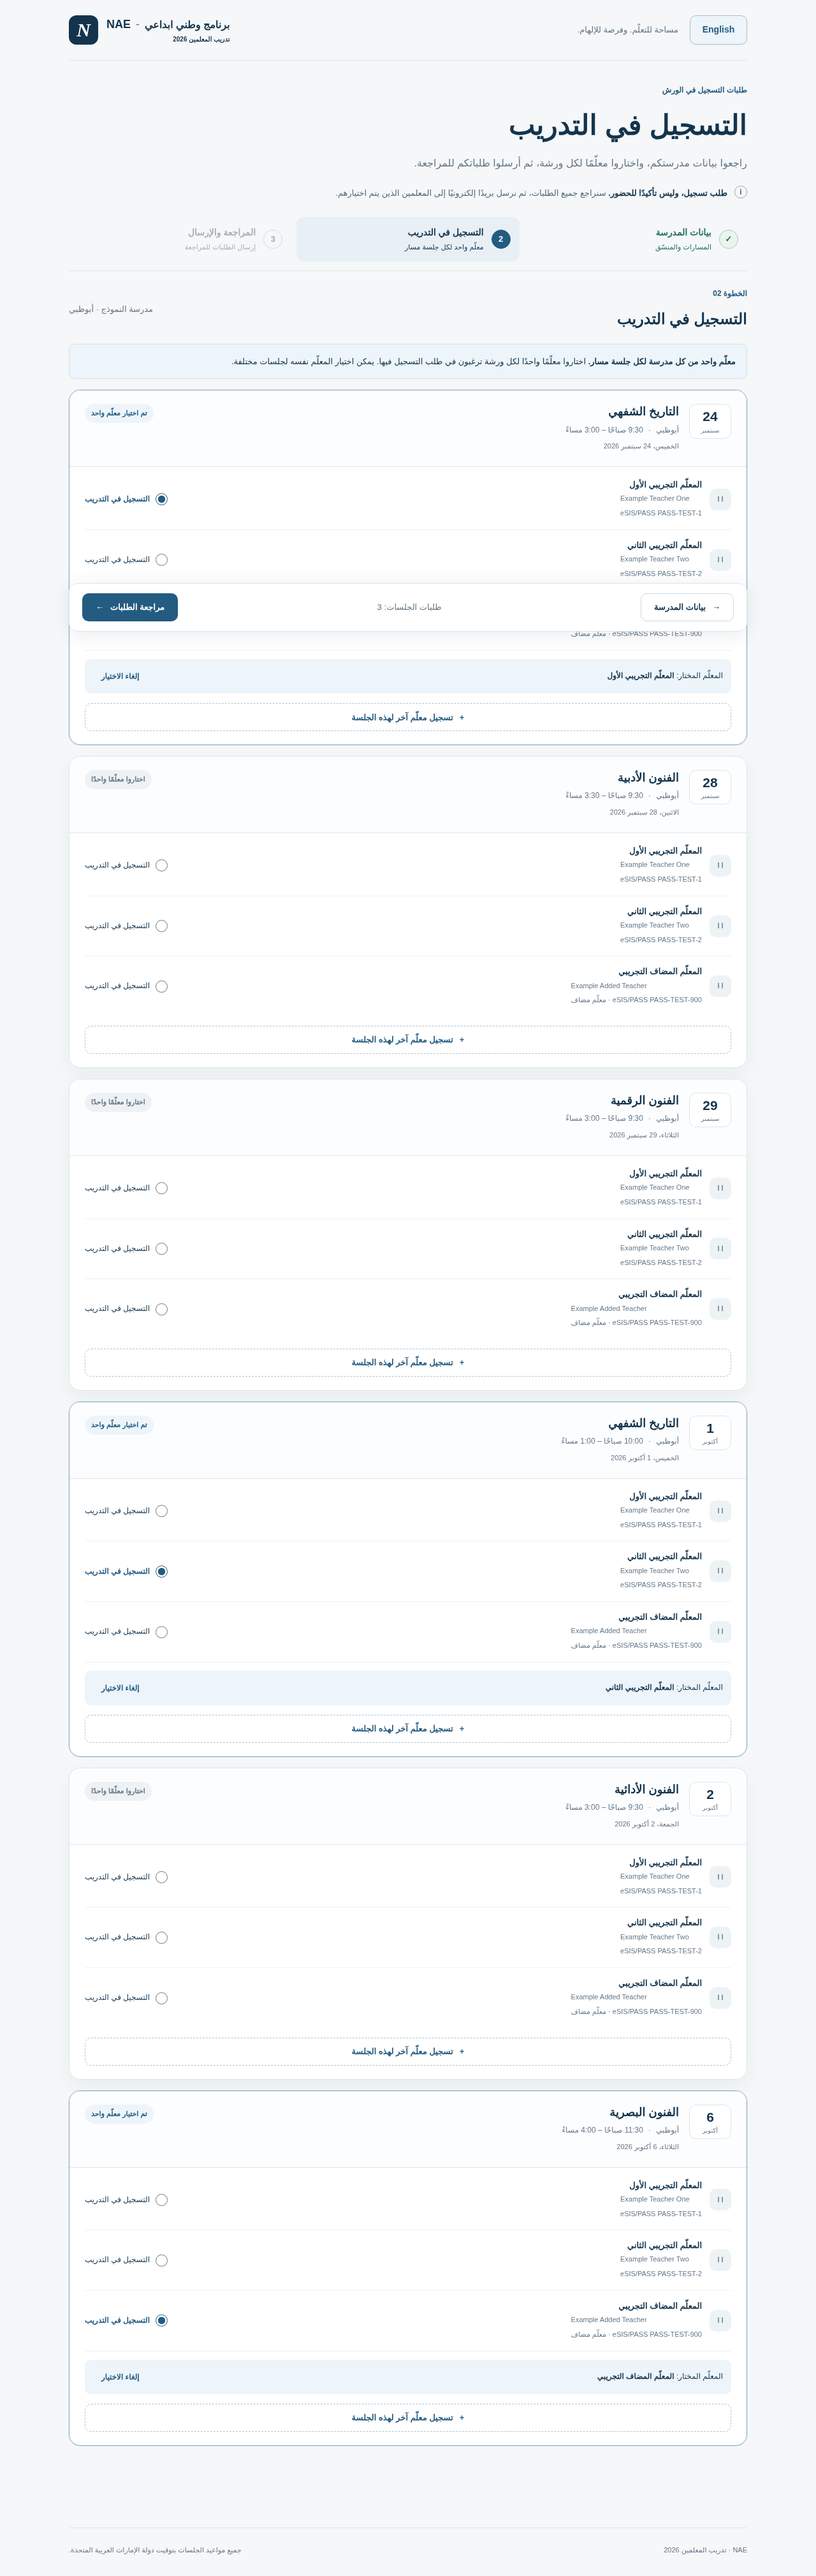
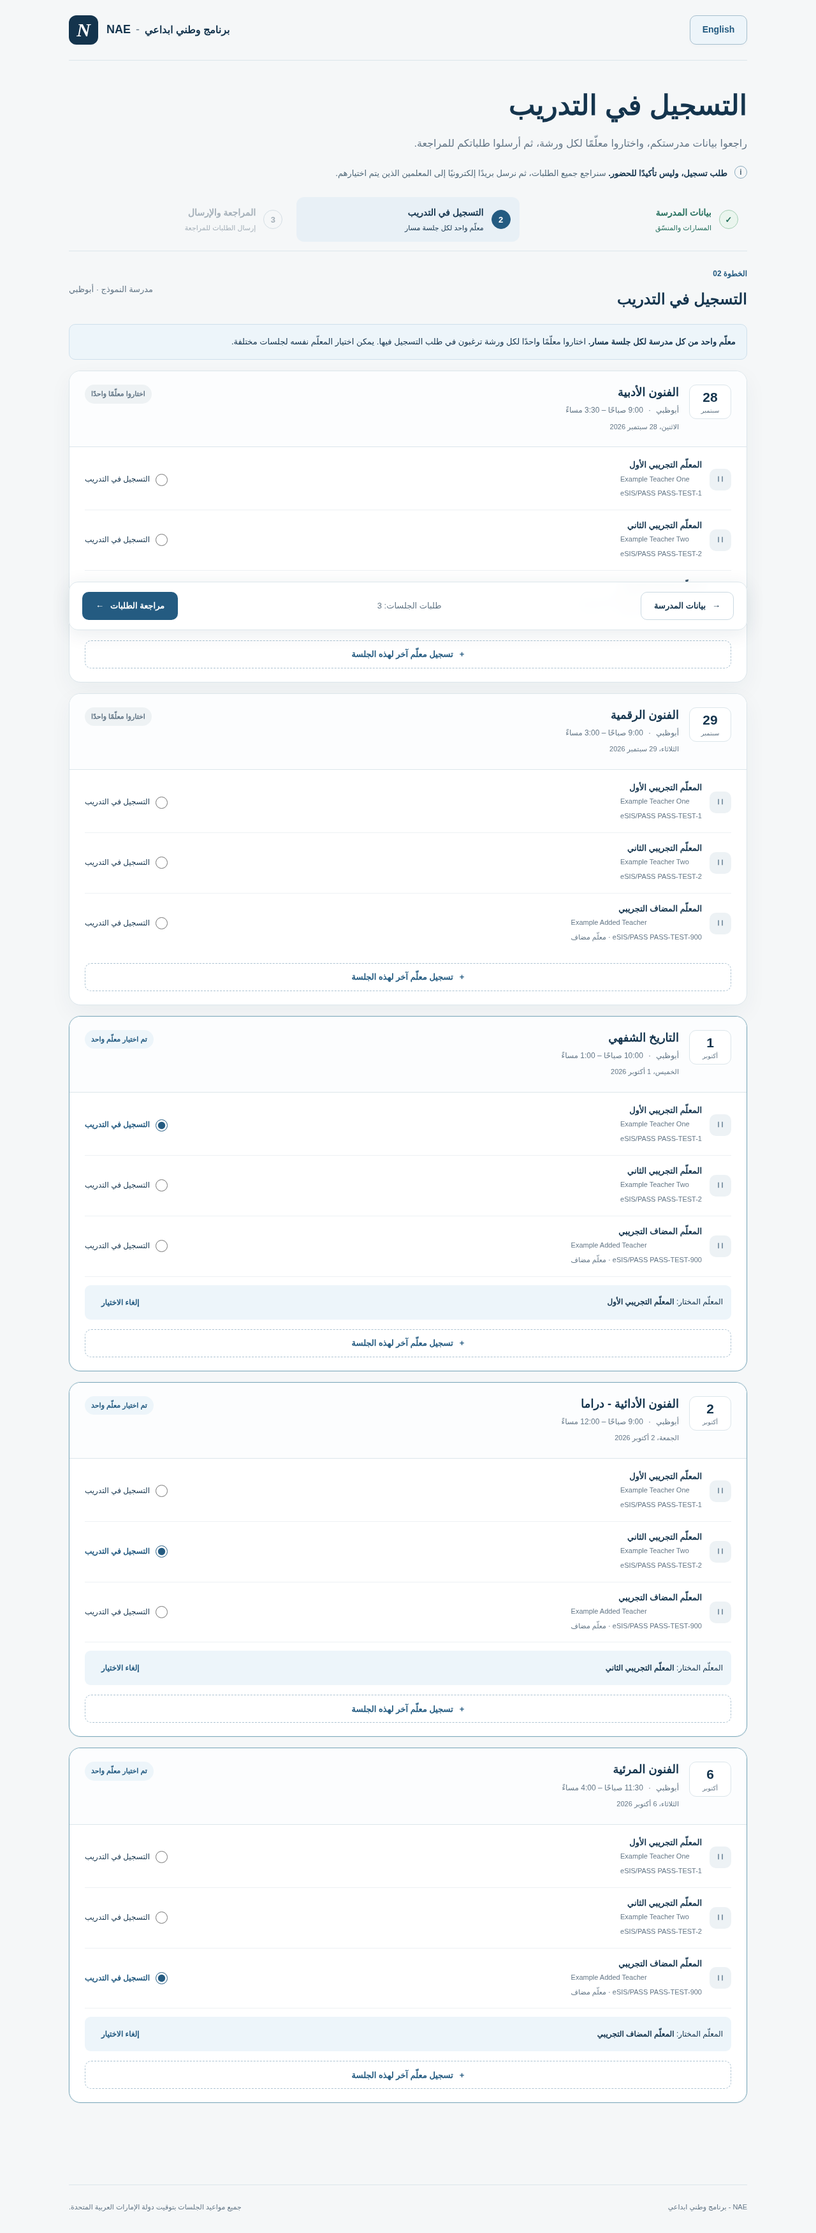
Close 24 September Oral History registration

diff --git a/tests/domain.test.js b/tests/domain.test.js
@@ -6,7 +6,8 @@ const all=domain.officialPathways;
 const ad=data.schools.find(s=>s.region==='Abu Dhabi'&&s.coordinator.verified&&s.teachers.length>=2);
 const unverified=data.schools.find(s=>s.coordinator.nameEnglish&&!s.coordinator.verified&&s.teachers.length);
 const noCoordinator=data.schools.find(s=>!s.coordinator.nameEnglish);
-const oral=data.sessions.filter(s=>s.pathway==='Oral History');
+const oral=data.sessions.filter(s=>s.pathway==='Oral History'&&s.registrationOpen!==false);
+const closedOral=data.sessions.find(s=>s.id==='ORAL-HISTORY-ABU-DHABI-20260924');
 const newCoordinator={nameEnglish:'Test Coordinator',nameArabic:'Test Arabic Name',esis:'PASS-TEST-C',position:'Coordinator',emiratesId:'784-2000-0000000-0',workEmail:'coordinator@example.invalid',primaryEmail:'primary@example.invalid',mobile:'0500000000'};
 const newTeacher={id:'A-test',nameEnglish:'Test Teacher',nameArabic:'Test Arabic Name',esis:'PASS-TEST-1',position:'Teacher',workEmail:'teacher@example.invalid',mobile:'0500000000'};
 function body(school=ad){return {requestId:crypto.randomUUID(),schoolEsis:school.schoolEsis,pathways:[...all],pathwaysReviewed:true,coordinator:{action:school.coordinator.verified?'verified':school.coordinator.nameEnglish?'confirm':'add',...(!school.coordinator.nameEnglish?newCoordinator:{})},addedTeachers:[],teacherIdentifiers:{},selections:[{sessionId:oral[0].id,teacherId:school.teachers[0]?.id||newTeacher.id}],acknowledgement:true,language:'en',acknowledgements:{onceOnly:true,emailConfirmation:true}};}
@@ -21,21 +22,20 @@ test('Private contacts and identity numbers never occur in public school fields'
 });
 test('Public session data excludes venue',()=>{for(const s of data.sessions)assert.equal('venue' in domain.publicSession(s),false);});
 test('Abu Dhabi regional routing; no Applied Arts training session invented',()=>{
- const sessions=eligibleSessions(ad,all);assert.equal(sessions.length,6);assert.ok(sessions.every(s=>s.region==='Abu Dhabi'));assert.ok(!sessions.some(s=>s.pathway==='Applied Arts'));
+ const sessions=eligibleSessions(ad,all);assert.equal(sessions.length,5);assert.ok(sessions.every(s=>s.region==='Abu Dhabi'));assert.ok(!sessions.some(s=>s.pathway==='Applied Arts'));
 });
 test('Al Ain arts route locally; Performing Arts and Oral History route to Abu Dhabi',()=>{
- const school=data.schools.find(s=>s.region==='Al Ain');const sessions=eligibleSessions(school,all);assert.equal(sessions.length,6);
+ const school=data.schools.find(s=>s.region==='Al Ain');const sessions=eligibleSessions(school,all);assert.equal(sessions.length,5);
  for(const s of sessions)assert.equal(s.region,['Oral History','Performing Arts'].includes(s.pathway)?'Abu Dhabi':'Al Ain');
 });
-test('Al Dhafra can access both regional options before choosing one',()=>assert.equal(eligibleSessions(data.schools.find(s=>s.region==='Al Dhafra'),all).length,9));
+test('Al Dhafra can access both regional options before choosing one',()=>assert.equal(eligibleSessions(data.schools.find(s=>s.region==='Al Dhafra'),all).length,8));
 test('Al Dhafra cannot request both Abu Dhabi and Al Ain for the same pathway',()=>{
  const school=data.schools.find(s=>s.region==='Al Dhafra');const b=body(school);const pair=data.sessions.filter(s=>s.pathway==='Visual Arts');
  b.addedTeachers=[newTeacher];b.selections=pair.map(s=>({sessionId:s.id,teacherId:newTeacher.id}));
  assert.throws(()=>validateRequest(b),/either Abu Dhabi or Al Ain/);
 });
-test('Schools without pathways still have both Oral History dates',()=>assert.deepEqual(eligibleSessions(ad,[]).map(s=>s.id),oral.map(s=>s.id)));
-test('Same teacher may request both Oral History sessions',()=>{const b=body();b.selections.push({sessionId:oral[1].id,teacherId:ad.teachers[0].id});assert.equal(validateRequest(b).payload.records.length,2);});
-test('Different teachers may request the two different Oral History dates',()=>{const b=body();b.selections.push({sessionId:oral[1].id,teacherId:ad.teachers[1].id});assert.equal(validateRequest(b).payload.records.length,2);});
+test('Schools without pathways can request only the open Oral History session',()=>assert.deepEqual(eligibleSessions(ad,[]).map(s=>s.id),oral.map(s=>s.id)));
+test('24 September Oral History remains in historical schedule data but is closed for new requests',()=>{assert.equal(closedOral.registrationOpen,false);assert.ok(!eligibleSessions(ad,all).some(s=>s.id===closedOral.id));const b=body();b.selections=[{sessionId:closedOral.id,teacherId:ad.teachers[0].id}];assert.throws(()=>validateRequest(b),/pathways or region/);});
 test('Two different teachers cannot request the same Oral History session',()=>{const b=body();b.selections.push({sessionId:oral[0].id,teacherId:ad.teachers[1].id});assert.throws(()=>validateRequest(b),/Only one teacher/);});
 test('Repeated identical session selection is rejected, not silently deduplicated',()=>{const b=body();b.selections.push({...b.selections[0]});assert.throws(()=>validateRequest(b),/Only one teacher/);});
 test('Teacher/session pairs for a wrong region are rejected server-side',()=>{const b=body();b.selections=[{sessionId:data.sessions.find(s=>s.pathway==='Visual Arts'&&s.region==='Al Ain').id,teacherId:ad.teachers[0].id}];assert.throws(()=>validateRequest(b),/pathways or region/);});
@@ -63,8 +63,8 @@ test('Missing existing eSIS is requested rather than inventing an identifier',()
 });
 test('Idempotent input produces the same hash and request-record IDs',()=>{const b=body();const a=validateRequest(b),c=validateRequest(b);assert.equal(a.hash,c.hash);assert.equal(a.payload.records[0].id,c.payload.records[0].id);});
 test('Changing a request changes its hash',()=>{const b=body();const a=validateRequest(b);b.pathways=[];assert.notEqual(a.hash,validateRequest(b).hash);});
-test('Same additional teacher is reused across multiple distinct sessions',()=>{const b=body();b.addedTeachers=[newTeacher];b.selections=oral.map(s=>({sessionId:s.id,teacherId:newTeacher.id}));assert.equal(validateRequest(b).payload.records.length,2);});
-test('Duplicate additional teacher eSIS is rejected',()=>{const b=body();b.addedTeachers=[newTeacher,{...newTeacher,id:'A-second'}];b.selections=oral.map((s,i)=>({sessionId:s.id,teacherId:b.addedTeachers[i].id}));assert.throws(()=>validateRequest(b),/entered more than once/);});
+test('Same additional teacher is reused across multiple distinct sessions',()=>{const b=body();const sessions=eligibleSessions(ad,all).slice(0,2);b.addedTeachers=[newTeacher];b.selections=sessions.map(s=>({sessionId:s.id,teacherId:newTeacher.id}));assert.equal(validateRequest(b).payload.records.length,2);});
+test('Duplicate additional teacher eSIS is rejected',()=>{const b=body();const sessions=eligibleSessions(ad,all).slice(0,2);b.addedTeachers=[newTeacher,{...newTeacher,id:'A-second'}];b.selections=sessions.map((s,i)=>({sessionId:s.id,teacherId:b.addedTeachers[i].id}));assert.throws(()=>validateRequest(b),/entered more than once/);});
 test('Adding a known Applied-only teacher cannot bypass their workshop eligibility',()=>{
  const school=data.schools.find(s=>s.teachers.some(t=>t.pathways.length===1&&t.pathways[0]==='Applied Arts'));
  const teacher=school.teachers.find(t=>t.pathways.length===1&&t.pathways[0]==='Applied Arts');

diff --git a/tests/bilingual.test.js b/tests/bilingual.test.js
@@ -1,7 +1,7 @@
 'use strict';
 const test=require('node:test'),assert=require('node:assert/strict'),crypto=require('node:crypto'),fs=require('node:fs');
 const I=require('../public/i18n'),D=require('../lib/domain'),JF=require('../lib/jotform');
-function valid(){const school=D.data.schools.find(s=>s.coordinator.verified&&s.teachers.some(t=>t.esis));const teacher=school.teachers.find(t=>t.esis),session=D.data.sessions.find(s=>s.pathway==='Oral History');return {requestId:crypto.randomUUID(),schoolEsis:school.schoolEsis,pathways:school.registeredPathways,pathwaysReviewed:true,coordinator:{action:'verified'},selections:[{sessionId:session.id,teacherId:teacher.id}],addedTeachers:[],teacherIdentifiers:{},language:'en',acknowledgement:true,acknowledgements:{onceOnly:true,emailConfirmation:true}};}
+function valid(){const school=D.data.schools.find(s=>s.coordinator.verified&&s.teachers.some(t=>t.esis));const teacher=school.teachers.find(t=>t.esis),session=D.data.sessions.find(s=>s.pathway==='Oral History'&&s.registrationOpen!==false);return {requestId:crypto.randomUUID(),schoolEsis:school.schoolEsis,pathways:school.registeredPathways,pathwaysReviewed:true,coordinator:{action:'verified'},selections:[{sessionId:session.id,teacherId:teacher.id}],addedTeachers:[],teacherIdentifiers:{},language:'en',acknowledgement:true,acknowledgements:{onceOnly:true,emailConfirmation:true}};}
 test('Both separate acknowledgements are required; the legacy flag alone is not enough',()=>{for(const a of [undefined,{}, {onceOnly:true},{emailConfirmation:true},{onceOnly:false,emailConfirmation:true},{onceOnly:true,emailConfirmation:false},{onceOnly:'true',emailConfirmation:true}]){const body=valid();body.acknowledgements=a;assert.throws(()=>D.validateRequest(body),e=>e.code==='ACKNOWLEDGEMENTS_REQUIRED');}});
 test('English acceptance is saved with exact requested statements and a policy version',()=>{const p=D.validateRequest(valid()).payload;assert.equal(p.language,'en');assert.equal(p.acknowledgements.version,I.policyVersion);assert.deepEqual(p.acknowledgements.statements,{onceOnly:I.policy.en.onceOnly,emailConfirmation:I.policy.en.emailConfirmation});assert.equal(p.acknowledgements.onceOnly,true);assert.equal(p.acknowledgements.emailConfirmation,true);});
 test('Arabic acceptance is stored from the authoritative catalogue, not client-supplied text',()=>{const b=valid();b.language='ar';b.acknowledgements.statements={onceOnly:'Untrusted text',emailConfirmation:'Approved'};const p=D.validateRequest(b).payload;assert.equal(p.language,'ar');assert.equal(p.acknowledgements.statements.onceOnly,I.policy.ar.onceOnly);assert.equal(p.acknowledgements.statements.emailConfirmation,I.policy.ar.emailConfirmation);assert.equal(p.records[0].status,'Pending review');});

diff --git a/tests/once.test.js b/tests/once.test.js
@@ -13,7 +13,7 @@ function stub(t,object,key,value){const original=object[key];object[key]=value;t
 function env(t,key,value){const prior=process.env[key];if(value===undefined)delete process.env[key];else process.env[key]=value;t.after(()=>{if(prior===undefined)delete process.env[key];else process.env[key]=prior;});}
 function schoolRequest(){
   const s=domain.data.schools.find(x=>x.coordinator.verified && x.teachers.some(t=>t.esis));
-  const session=domain.data.sessions.find(x=>x.pathway==='Oral History');
+  const session=domain.data.sessions.find(x=>x.pathway==='Oral History'&&x.registrationOpen!==false);
   const teacher=s.teachers.find(x=>x.esis);
   return {requestId:crypto.randomUUID(),schoolEsis:s.schoolEsis,pathways:s.registeredPathways,pathwaysReviewed:true,
     coordinator:{action:'verified'},selections:[{sessionId:session.id,teacherId:teacher.id}],addedTeachers:[],teacherIdentifiers:{},acknowledgement:true,language:'en',acknowledgements:{onceOnly:true,emailConfirmation:true}};

diff --git a/tests/schedule.test.js b/tests/schedule.test.js
@@ -21,3 +21,18 @@ test('published workshop session times match the September 22 schedule update',(
     assert.equal(session.time,time,`${id} time`);
   }
 });
+
+test('24 September Oral History is retained for history but closed to new registration',()=>{
+  const session=data.sessions.find(s=>s.id==='ORAL-HISTORY-ABU-DHABI-20260924');
+  assert.ok(session);
+  assert.equal(session.registrationOpen,false);
+});
+
+test('public config hides the closed 24 September Oral History session',()=>{
+  const handler=require('../api/config');
+  const res={headers:{},setHeader(k,v){this.headers[k]=v;},status(n){this.statusCode=n;return this;},json(v){this.value=v;return this;}};
+  handler({method:'GET'},res);
+  assert.equal(res.statusCode,200);
+  assert.ok(!res.value.sessions.some(s=>s.id==='ORAL-HISTORY-ABU-DHABI-20260924'));
+  assert.ok(res.value.sessions.some(s=>s.id==='ORAL-HISTORY-ABU-DHABI-20261001'));
+});

diff --git a/api/config.js b/api/config.js
@@ -3,6 +3,6 @@ const store=require('../lib/store');
 const {method}=require('../lib/http');
 module.exports=(req,res)=>{
   if(!method(req,res,['GET']))return;
-  res.status(200).json({version:2.1,submissionPolicy:'one_request_per_school',sessions:data.sessions.map(publicSession),officialPathways,
+  res.status(200).json({version:2.2,submissionPolicy:'one_request_per_school',sessions:data.sessions.filter(s=>s.registrationOpen!==false).map(publicSession),officialPathways,
     requireAccessCode:Boolean(process.env.SCHOOL_ACCESS_SECRET),storageConfigured:store.configured(),previewOnly:isLocalPreview()});
 };

diff --git a/lib/domain.js b/lib/domain.js
@@ -21,6 +21,7 @@ function publicSchool(school) {
 function publicSession(s) { const {venue,...safe}=s; return safe; }
 function eligibleSessions(school, pathways) {
   return data.sessions.filter(s=>{
+    if(s.registrationOpen===false) return false;
     if(s.pathway==='Oral History') return true;
     if(!pathways.includes(s.pathway)) return false;
     if(s.pathway==='Performing Arts') return s.region==='Abu Dhabi';

diff --git a/tests/browser_fixture_test.py b/tests/browser_fixture_test.py
@@ -21,7 +21,7 @@ with sync_playwright() as p:
             'coordinator':{'nameEnglish':school['coordinator']['nameEnglish'],'listed':bool(school['coordinator']['nameEnglish']),'verified':school['coordinator']['verified']},
             'teachers':[{k:t[k] for k in ['id','nameEnglish','nameArabic','esis','pathways']} for t in school['teachers']],
             'bookedSessionIds':[],'storageConfigured':True,'previewOnly':False}
-    fixture={'schools':safe_schools,'config':{'version':2,'sessions':[{k:v for k,v in x.items() if k!='venue'} for x in data['sessions']],
+    fixture={'schools':safe_schools,'config':{'version':2,'sessions':[{k:v for k,v in x.items() if k!='venue'} for x in data['sessions'] if x.get('registrationOpen', True)],
         'officialPathways':data['officialPathways'],'requireAccessCode':False,'storageConfigured':True,'previewOnly':False}}
     html=(root/'public/index.html').read_text()
     html=re.sub(r'<link[^>]*>|<script[^>]*></script>','',html)
@@ -57,17 +57,18 @@ with sync_playwright() as p:
     page.screenshot(path=str(root/'screenshots/01-school-details.png'),full_page=True)
     page.locator('#school-next').click()
     expect(page.locator('#session-list')).to_be_visible()
-    assert page.locator('.session-card').count()==6
+    assert page.locator('.session-card').count()==5
     assert page.locator('#session-list').get_by_text('Applied Arts',exact=True).count()==0
     for venue in [s['venue'] for s in data['sessions']]:
         assert venue not in page.locator('body').inner_text()
     oral=page.locator('.session-card').filter(has=page.get_by_role('heading',name='Oral History',exact=True))
-    first=oral.nth(0);second=oral.nth(1)
+    first=oral.nth(0)
     first.locator('input[type=radio]').nth(0).check()
     first.locator('input[type=radio]').nth(1).check()
     assert first.locator('input[type=radio]:checked').count()==1
     t_id=first.locator('input[type=radio]:checked').get_attribute('value')
-    second.locator('input[value="'+t_id+'"]').check()
+    performing=page.locator('.session-card').filter(has=page.get_by_role('heading',name='Performing Arts - Drama',exact=True))
+    performing.locator('input[type=radio]').first.check()
     assert page.locator('#selection-count').inner_text().startswith('2')
     page.screenshot(path=str(root/'screenshots/02-session-selection.png'),full_page=True)
     # Add new teacher inline and reuse that teacher for a second session.
@@ -116,9 +117,9 @@ with sync_playwright() as p:
     page.locator('#pathways-reviewed').check()
     if not school['coordinator']['verified']:page.locator('[name=coordinator-action][value=confirm]').check()
     page.locator('#school-next').click()
-    assert page.locator('.session-card').count()==2
-    assert page.locator('.empty-session').count()==2
-    summary.append('Empty school: both Oral History dates and add-teacher controls: passed')
+    assert page.locator('.session-card').count()==1
+    assert page.locator('.empty-session').count()==1
+    summary.append('Empty school: open Oral History session and add-teacher control: passed')
     # Al Dhafra chooses one region per regional pathway; both regional session cards are never shown at once.
     school=next(s for s in data['schools'] if s['region']=='Al Dhafra' and s['coordinator']['nameEnglish'])
     select(school['schoolEsis'])
@@ -127,7 +128,7 @@ with sync_playwright() as p:
     if not school['coordinator']['verified']:page.locator('[name=coordinator-action][value=confirm]').check()
     page.locator('#school-next').click()
     assert page.locator('.regional-pathway-card').count()==3
-    assert page.locator('.session-card').count()==6  # 2 Oral History + Performing + 3 regional pathway cards
+    assert page.locator('.session-card').count()==5  # 1 open Oral History + Performing + 3 regional pathway cards
     visual=page.locator('.regional-pathway-card').filter(has=page.get_by_role('heading',name='Visual Arts',exact=True))
     assert visual.locator('.region-option').count()==2
     assert visual.locator('.teacher-row').count()==0

diff --git a/tests/browser_bilingual_test.py b/tests/browser_bilingual_test.py
@@ -8,7 +8,7 @@ from playwright.sync_api import sync_playwright, expect
 ROOT=Path(__file__).resolve().parents[1]
 summary=[]
 data=json.loads((ROOT/'data/registration-data.json').read_text(encoding='utf-8'))
-sessions=[{k:v for k,v in s.items() if k!='venue'} for s in data['sessions']]
+sessions=[{k:v for k,v in s.items() if k!='venue'} for s in data['sessions'] if s.get('registrationOpen', True)]
 paths=data['officialPathways']
 oral=[s for s in sessions if s['pathway']=='Oral History']
 visual_ad=next(s for s in sessions if s['pathway']=='Visual Arts' and s['region']=='Abu Dhabi')
@@ -86,7 +86,7 @@ with sync_playwright() as p:
     screenshot('01-school-arabic.png');summary.append('English/Arabic toggle, top-right placement, Arabic-name search, keyboard selection and preserved pathway review: passed')
     nextschool()
     card=page.locator('#card-'+oral[0]['id']);card.locator('[data-select-session]').first.check()
-    card2=page.locator('#card-'+oral[1]['id']);card2.locator('[data-select-session]').nth(1).check()
+    performing=next(s for s in sessions if s['pathway']=='Performing Arts');card2=page.locator('#card-'+performing['id']);card2.locator('[data-select-session]').nth(1).check()
     toggle();expect(card.locator('[data-select-session]').first).to_be_checked();toggle()
     visual=page.locator('#card-'+visual_ad['id']);visual.locator('[data-add-session]').click()
     page.locator('#teacher-nameEnglish').fill('Example Added Teacher');page.locator('#teacher-nameArabic').fill('المعلّم المضاف التجريبي')
@@ -128,7 +128,7 @@ with sync_playwright() as p:
     expect(v.locator('[data-region-pathway][value="Abu Dhabi"]')).to_be_checked();assert v.locator('[data-select-session]:checked').count()==1
     toggle();v.locator('[data-region-pathway][value="Al Ain"]').check();assert v.locator('[data-select-session]:checked').count()==0
     v.locator('[data-select-session]').first.check();assert v.locator('[data-region-pathway]:checked').count()==1
-    page.locator('#card-'+oral[0]['id']).locator('[data-select-session]').first.check();page.locator('#card-'+oral[1]['id']).locator('[data-select-session]').first.check()
+    page.locator('#card-'+oral[0]['id']).locator('[data-select-session]').first.check();performing=next(s for s in sessions if s['pathway']=='Performing Arts');page.locator('#card-'+performing['id']).locator('[data-select-session]').first.check()
     page.locator('#sessions-next').click();page.locator('#ack-once').check();page.locator('#ack-email').check()
     server['fail_once']=True;page.locator('#submit-request').click();expect(page.locator('#submit-error')).to_be_visible()
     before=server['attempts'][-1];toggle();page.locator('#submit-request').click();expect(page.get_by_role('heading',name='Your request has been received')).to_be_visible()

diff --git a/CLOSED-SESSION-UPDATE.md b/CLOSED-SESSION-UPDATE.md
@@ -1,0 +1,12 @@
+# 24 September Oral History session closed
+
+The session `ORAL-HISTORY-ABU-DHABI-20260924` remains in the internal schedule data for historical compatibility, but it is closed to all new requests.
+
+Behavior after this update:
+- The 24 September 2026 Oral History session is not returned by `/api/config`, so it is hidden from the registration UI in English and Arabic.
+- Server-side request validation excludes the closed session. A stale browser tab or manually modified request cannot submit a new registration for it.
+- Existing Supabase and Jotform records are not changed or deleted.
+- The 1 October 2026 Oral History session remains open.
+- No Supabase migration and no Jotform form edit are required.
+
+Deploy by committing these application changes to the Git branch connected to Vercel.
